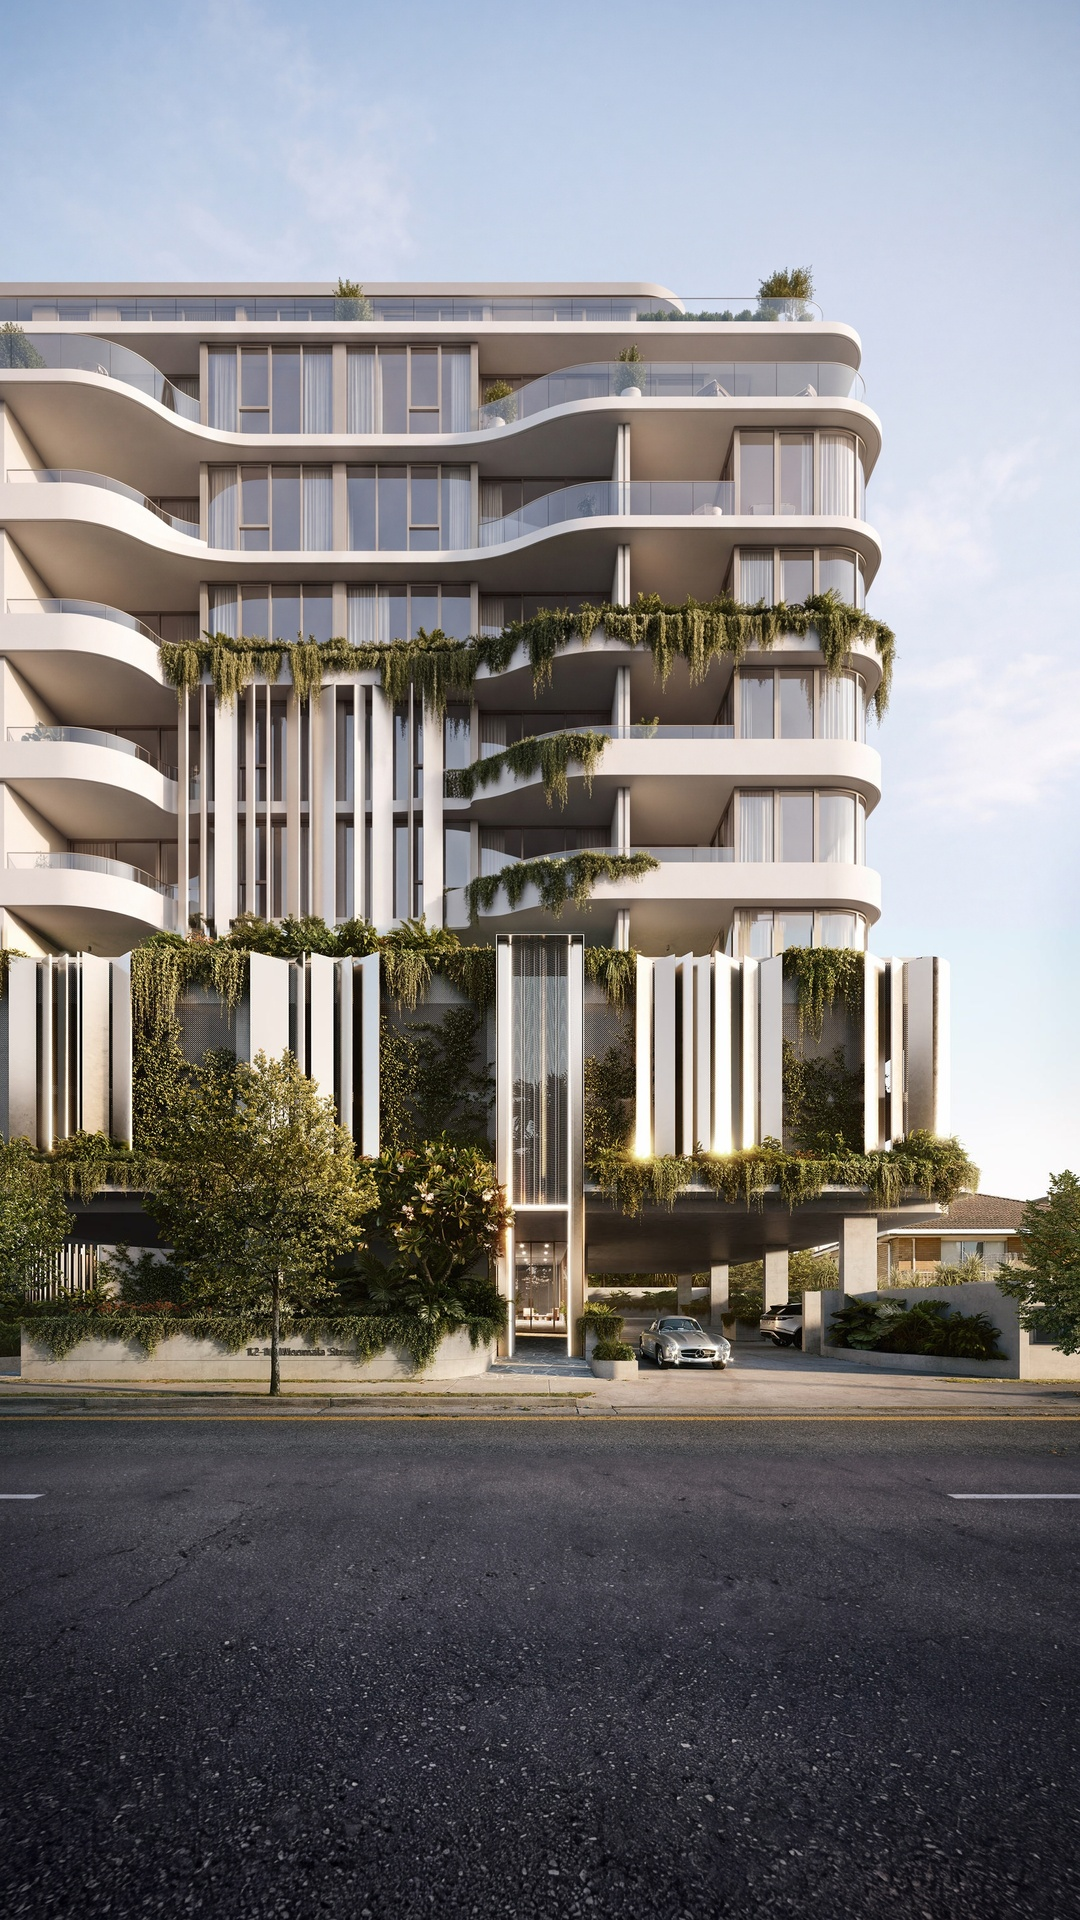
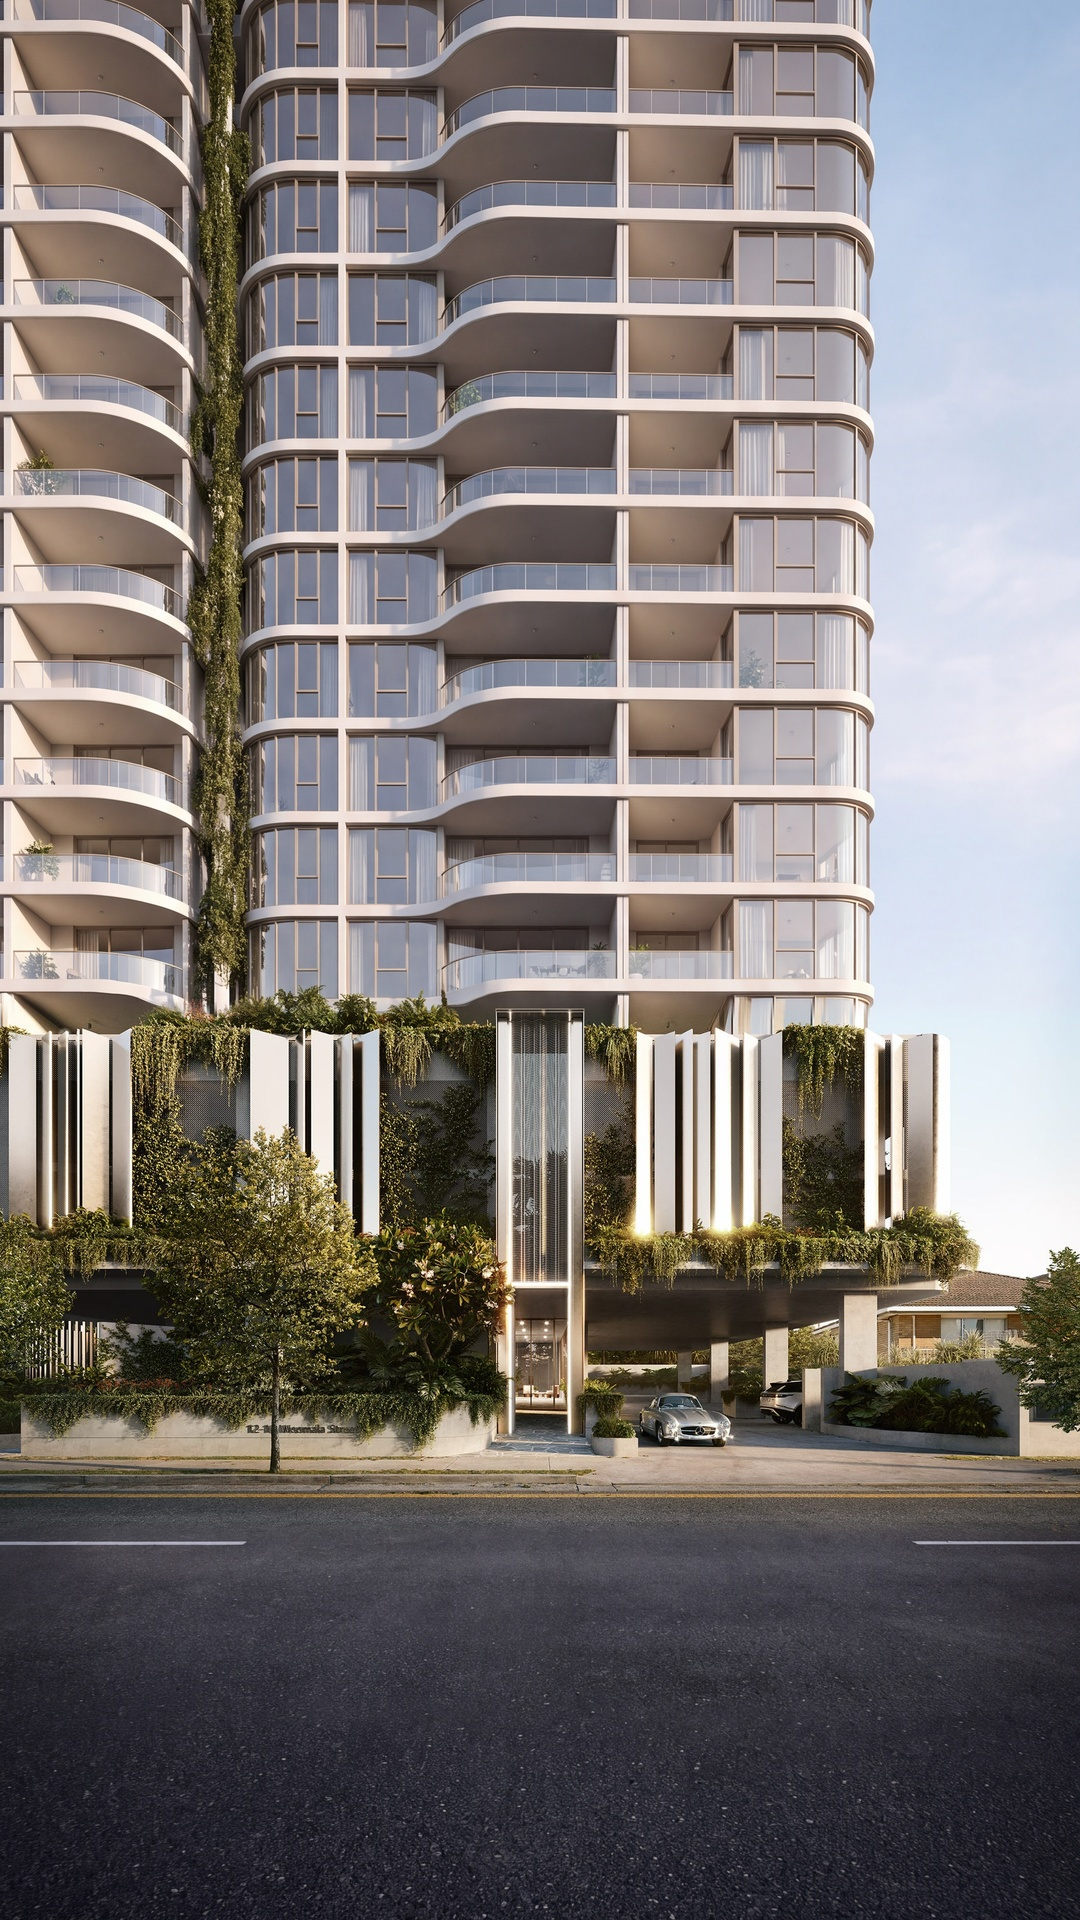
Woomala 9:16: #11 tower off-frame re-roll, realism pass tests

diff --git a/projects/woomala-st-9x16/JOB.md b/projects/woomala-st-9x16/JOB.md
@@ -22,7 +22,10 @@
 | Re-roll 7 × NBP 4k padded | 28 |
 | Re-roll #01 bottom-anchored | 4 |
 | Re-roll #03 padded (seam fix) | 4 |
-| **Total** | **50 Magnific + 88 Higgsfield** |
+| Re-roll #11, tower off frame top (Hunter: apartment too small) | 4 |
+| Realism test #04 Seedream 4.5 (FAIL: re-composed the room) | 1 |
+| Realism test #04 NBP edit-style (PASS: layout held) | 4 |
+| **Total** | **50 Magnific + 97 Higgsfield** |
 
 ## Batch result (2026-10-06)
 - PASS (original pasted back 1:1, seams clean): #03 #04 #06 #07 #12 #13 #14 → `deliver/`. #01 is a plain crop with the caption re-set.
@@ -32,3 +35,4 @@
 
 **Lesson:** NBP with a raw landscape ref + 9:16 reframes/zooms ~half the time. Pre-padding the ref onto a 9:16 grey canvas locks position (7/7). For real photos, anchor the photo to a frame edge so the AI only fills sky.
 - 2026-10-06: #03 bottom seam showed a paving scale/tone line → re-rolled on padded canvas, 4 cr, clean. Heavy intermediates (nbp/, nbp2/, clean/, padded/, final/) git-ignored; deliver/ is the source of truth.
+- 2026-10-06: Hunter feedback: #11 apartment too small → re-rolled, tower now runs off frame top. Wants realism passes (sun etc) on the whole image. Seedream 4.5 full-frame on a 9:16 composite re-composed the room (fail). NBP 4k with edit-style wording ('edit into a real photograph, keep composition, change only light') held the layout. Awaiting go on the other 13.
